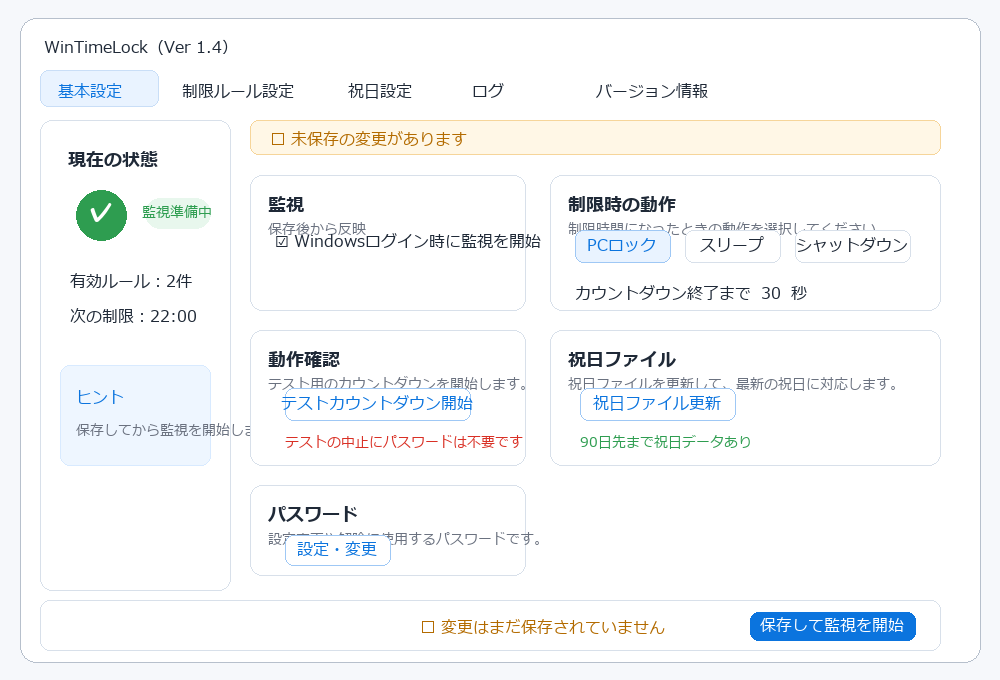
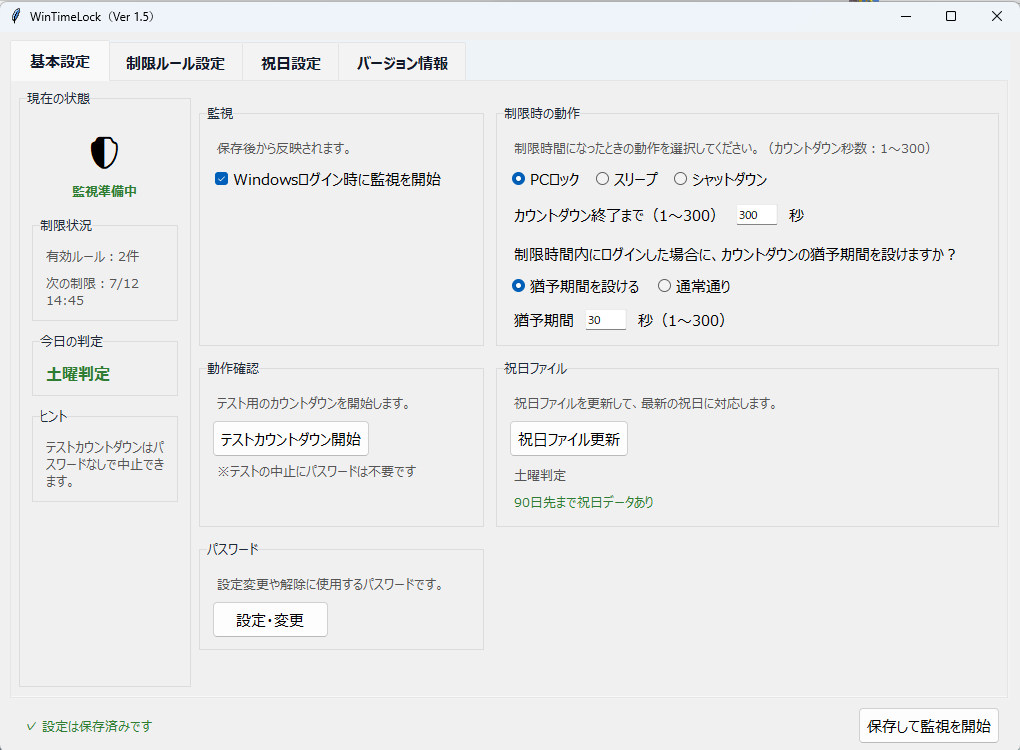
Update WinTimeLock page screenshot

diff --git a/wintimelock/index.html b/wintimelock/index.html
@@ -64,12 +64,9 @@
         <svg viewBox="0 0 24 24" fill="none" stroke="currentColor" stroke-width="2"><path d="M7 17 17 7M9 7h8v8"/></svg>
       </a>
     </div>
-    <p class="status-note">WinTimeLock_Setup_v1.5.1.exe / 34,662,304 bytes / SHA-256: <code>8D81E7B3565445ABF64218F153E012D38B845320B5D667CB09153DA568024709</code> / 配布ファイルはGitHub Releaseに置いています。</p>
-
     <section class="block">
       <figure class="shot">
         <img src="assets/basic-settings.png" alt="WinTimeLock v1.5.1 の基本設定画面" />
-        <figcaption>v1.5.1では、PCロック後に再度ログインした場合も、ロック解除後に制限時間内ログイン時の猶予が始まるよう改善しました。</figcaption>
       </figure>
     </section>
 
@@ -89,7 +86,6 @@
         <ul>
           <li>本ソフトは強固なセキュリティ製品ではなく、家庭内での利用時間をゆるやかに管理する補助ツールです。</li>
           <li>Windows 10 / 11 を想定しています。インストーラー形式で、Pythonなどを別途インストールする必要はありません。</li>
-          <li>既存のVectorページも引き続き参照できます。最新版の直接配布はこのMasaToolsページから行います。</li>
         </ul>
       </div>
     </section>